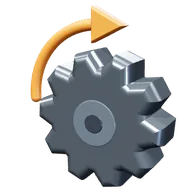
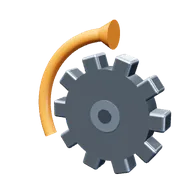
Símbolos modelados en 3D real (18 más): silla, lámpara, gráfica con flecha, billete, gorro de chef, sartén, pluma fuente, engrane con flecha, fábrica, pi, signos de operaciones, brazo robótico, engrane con circuito, etiqueta, vestido, tijeras, portafolio y pelota de tenis

diff --git a/datos/simbolos3d/models.js b/datos/simbolos3d/models.js
@@ -38,6 +38,144 @@ const PU='#8E5BB5',TE='#2FA39A',OR='#F08A2E',PK='#F3A3B5',GL='#AEE0F2';const GY=
 
 const circ=(cx,cy,r,n,a0,a1)=>{a0=a0==null?0:a0;a1=a1==null?Math.PI*2:a1;const o=[];for(let i=0;i<n;i++){const a=a0+(a1-a0)*i/(n-(Math.abs(a1-a0-Math.PI*2)<1e-6?0:1));o.push([cx+Math.cos(a)*r,cy+Math.sin(a)*r])}return o};
 export const MODELS={
+  // Silla de madera con respaldo de travesaños
+  'disindustrial.a'(K){
+    K.box(46,5,42,WO,{m:'wood',p:[0,0,0],rad:1.6});
+    [[-19,-17],[19,-17],[-19,17],[19,17]].forEach(([x,z])=>K.box(4,36,4,'#8F5E30',{m:'wood',p:[x,-20,z],rad:1}));
+    [-19,19].forEach(x=>K.box(4,44,4,'#8F5E30',{m:'wood',p:[x,24,-17],rad:1}));
+    [36,26,16].forEach(y=>K.box(38,5,3,WO,{m:'wood',p:[0,y,-17],rad:1}));
+    K.box(38,2.4,2.4,'#8F5E30',{m:'wood',p:[0,-26,0],rad:0.8,r:[0,90,0]});
+  },
+  // Lámpara de escritorio articulada
+  'disindustrial.b'(K){
+    K.cyl(18,20,5,'#2B3540',{p:[0,-40,0]});
+    K.tube([[0,-38,0],[-12,0,0]],2,ST,{m:'metal'});K.sph(3.4,GY,{m:'metal',p:[-12,0,0]});
+    K.tube([[-12,0,0],[14,22,0]],2,ST,{m:'metal'});K.sph(3.4,GY,{m:'metal',p:[14,22,0]});
+    const h=K.group({p:[22,20,0],r:[0,0,-130]});K.lathe([[0.01,0],[6,0],[8,4],[16,16],[17,18],[0.01,6]].reverse(),YE,{parent:h});K.cyl(5,5,1,'#FFF6CC',{p:[0,14,0],parent:h});
+  },
+  // Gráfica en ascenso con flecha y moneda
+  'economia.a'(K){
+    K.tube([[-40,-30,0],[-18,-6,0],[-4,-16,0],[24,20,0]],4,GR,{tension:0});
+    K.cone(9,16,GR,{p:[30,27,0],r:[0,0,-43]});
+    K.cyl(12,12,4,GO,{m:'gold',p:[-26,24,0],r:[90,0,0]});K.tor(9,0.8,'#C9961E',{m:'gold',p:[-26,24,2.2]});
+  },
+  // Billete con marco, retrato y signo de pesos
+  'economia.b'(K){
+    K.box(88,46,3,'#8CC47A',{rad:2});
+    [1.8,-1.8].forEach(z=>{const g=K.group({p:[0,0,z],r:[0,z<0?180:0,0]});
+      K.box(80,38,0.5,'#6BA85A',{rad:2,parent:g});K.box(76,34,0.6,'#9FD38C',{rad:2,parent:g});
+      K.cyl(12,12,0.8,'#BFE3B0',{r:[90,0,0],parent:g});
+      K.tube([[4,6,0.6],[0,8,0.6],[-4,6,0.6],[-3,2,0.6],[3,-1,0.6],[4,-5,0.6],[0,-8,0.6],[-4,-6,0.6]],1,'#2F6A2E',{parent:g});K.tube([[0,11,0.6],[0,-11,0.6]],0.9,'#2F6A2E',{parent:g});
+      [[-32,-14],[32,14]].forEach(([x,y])=>K.cyl(4,4,0.8,'#BFE3B0',{p:[x,y,0],r:[90,0,0],parent:g}))});
+  },
+  // Gorro de chef con pliegues y banda
+  'gastronomia.a'(K){
+    K.cyl(22,22,22,WH,{p:[0,-20,0]});
+    for(let i=0;i<16;i++){const a=i/16*Math.PI*2;K.box(1,20,1,'#E1DDD3',{p:[Math.cos(a)*22.2,-20,Math.sin(a)*22.2]})}
+    [[0,14,0,20],[-16,8,0,15],[16,8,0,15],[0,8,-14,15],[0,8,14,15],[-10,18,8,13],[10,18,-8,13]].forEach(([x,y,z,r])=>K.sph(r,WH,{p:[x,y,z]}));
+  },
+  // Sartén con huevo estrellado y mango
+  'gastronomia.b'(K){
+    const g=K.group({r:[55,0,0]});
+    K.lathe([[0.01,-4],[28,-4],[33,4],[31,5],[26,-1],[0.01,-1]],'#2B3540',{parent:g});
+    K.cyl(14,14,1.6,WH,{p:[-2,0,2],parent:g,s:[1,1,0.8]});K.sph(6,YE,{p:[0,1,2],s:[1,0.6,1],parent:g});
+    K.cyl(3,3,36,BR,{m:'wood',p:[48,2,0],r:[0,0,90],parent:g});
+  },
+  // Plumilla de pluma fuente dorada
+  'grafico.a'(K){
+    const g=K.group({r:[0,0,-35]});
+    K.lathe([[0.01,0],[12,0],[11,10],[7,24],[3,34],[0.01,38]],GO,{m:'gold',s:[1,1,0.45],parent:g});
+    [5.6,-5.6].forEach(z=>{K.box(1,20,0.6,'#7A5A1A',{p:[0,22,z*0.9],parent:g});K.cyl(2.2,2.2,0.6,'#7A5A1A',{p:[0,12,z],r:[90,0,0],parent:g})});
+    K.cyl(10,12,14,'#2B3540',{p:[0,-7,0],parent:g});K.cyl(12.4,12.4,3,GO,{m:'gold',p:[0,-15,0],parent:g});
+    K.cyl(12,11,30,'#2B3540',{p:[0,-32,0],parent:g});K.sph(11,'#2B3540',{p:[0,-47,0],s:[1,0.5,1],parent:g});
+  },
+
+  // Engrane con flecha de mejora alrededor
+  'industrial.a'(K){
+    K.cyl(26,26,12,ST,{m:'metal',r:[90,0,0]});
+    for(let i=0;i<10;i++){const a=i/10*Math.PI*2;K.box(10,10,12,ST,{m:'metal',p:[Math.cos(a)*29,Math.sin(a)*29,0],r:[0,0,a*180/Math.PI],rad:1.6})}
+    K.cyl(9,9,13,'#5B6670',{r:[90,0,0]});K.cyl(4,4,14,'#3A4048',{r:[90,0,0]});
+    K.tor(44,3.6,OR,{arc:110,r:[0,0,95]});K.cone(8,14,OR,{p:[-5,44,0],r:[0,0,90]});
+  },
+  // Fábrica con techo de sierra, chimenea y humo
+  'industrial.b'(K){
+    K.box(70,30,36,'#B5583F',{p:[0,-14,0],rad:1});
+    for(let i=0;i<3;i++){K.ext('M0 0 L22 -14 L22 0 Z',36,'#9A4430',{bevel:0.6,p:[-35+i*22,1,0]});K.box(0.6,10,32,GL,{p:[-13+i*22,7,0]})}
+    K.cyl(5,6,52,'#9A4430',{p:[28,8,-8]});[0,10].forEach(y=>K.cyl(6.2,6.2,3,WH,{p:[28,14+y,-8]}));
+    [[30,40,6],[36,48,8],[44,54,6]].forEach(([x,y,r])=>K.sph(r,'#D5DCE2',{p:[x,y,-8]}));
+    for(let i=0;i<3;i++)K.box(10,8,1,YE,{p:[-22+i*18,-12,18.3],rad:1});K.box(12,16,1,'#5E3A20',{p:[-2,-21,18.3],rad:1});
+  },
+  // Letra pi en 3D
+  'matematicas.a'(K){
+    K.box(76,12,14,BL,{p:[0,30,0],rad:5});
+    K.ext('M-22 -28 H-10 V22 C-10 30 -16 34 -26 32 V22 C-22 22 -22 20 -22 18 Z',14,BL,{bevel:3});
+    K.ext('M10 -28 H22 V16 C22 22 26 24 32 22 V32 C20 38 10 32 10 20 Z',14,BL,{bevel:3});
+  },
+  // Pizarrón de operaciones: + − × =
+  'matematicas.b'(K){
+    K.box(70,70,10,'#2F5E45',{rad:10});
+    [5.4,-5.4].forEach(z=>{const g=K.group({p:[0,0,z]});
+      K.box(16,4,2,WH,{p:[-16,16,0],rad:1.6,parent:g});K.box(4,16,2,WH,{p:[-16,16,0],rad:1.6,parent:g});
+      K.box(16,4,2,WH,{p:[16,16,0],rad:1.6,parent:g});
+      K.box(16,4,2,WH,{p:[-16,-16,0],r:[0,0,45],rad:1.6,parent:g});K.box(16,4,2,WH,{p:[-16,-16,0],r:[0,0,-45],rad:1.6,parent:g});
+      K.box(16,4,2,WH,{p:[16,-12,0],rad:1.6,parent:g});K.box(16,4,2,WH,{p:[16,-20,0],rad:1.6,parent:g})});
+  },
+  // Brazo robótico industrial
+  'mecatronica.a'(K){
+    K.cyl(22,24,6,'#5B6670',{p:[0,-42,0]});K.cyl(14,14,10,OR,{p:[0,-34,0]});
+    K.sph(7,'#3A4048',{p:[0,-26,0]});
+    K.tube([[0,-26,0],[-10,4,0]],6,OR,{});K.sph(6,'#3A4048',{p:[-10,4,0]});
+    K.tube([[-10,4,0],[18,22,0]],5,OR,{});K.sph(5,'#3A4048',{p:[18,22,0]});
+    K.cyl(4,4,8,ST,{m:'metal',p:[24,26,0],r:[0,0,-60]});
+    [-1,1].forEach(sd=>K.box(3,12,4,ST,{m:'metal',p:[30,30+sd*5,0],r:[0,0,-60+sd*20],rad:0.8}));
+  },
+  // Engrane con circuito
+  'mecatronica.b'(K){
+    K.cyl(34,34,12,ST,{m:'metal',r:[90,0,0]});
+    for(let i=0;i<10;i++){const a=i/10*Math.PI*2;K.box(11,11,12,ST,{m:'metal',p:[Math.cos(a)*37,Math.sin(a)*37,0],r:[0,0,a*180/Math.PI],rad:1.6})}
+    [6.4,-6.4].forEach(z=>{K.box(36,36,1,GR,{p:[0,0,z],rad:3});
+      [[-8,8,16,0],[8,-6,0,14],[-10,-8,0,10]].forEach(([x,y,w,h])=>K.box(w||1.6,h||1.6,0.6,GO,{m:'gold',p:[x,y,z*1.12],rad:0.3}));
+      K.box(12,12,1.6,'#2B3540',{p:[4,4,z*1.15],rad:1})});
+  },
+  // Etiqueta de precio con hilo y signo de pesos
+  'mercadotecnia.b'(K){
+    K.shape([[-12,0],[10,-24],[46,-24],[46,24],[10,24]],[circ(2,0,4.5,24)],8,YE,{bevel:2});
+    [5,-5].forEach(z=>{K.tube([[34,10,z],[28,12,z],[22,9,z],[22,3,z],[30,-1,z],[34,-6,z],[30,-11,z],[22,-9,z]],1.4,'#8A5F12',{});K.tube([[28,16,z],[28,-16,z]],1.2,'#8A5F12',{})});
+    K.tube([[-1,0,0],[-10,10,4],[-20,22,4],[-30,26,0]],0.7,GY,{nocap:true});
+  },
+  // Vestido en gancho
+  'moda.a'(K){
+    K.tube([[-30,30,0],[0,40,0],[30,30,0]],1.4,ST,{m:'metal',tension:0});K.tube([[-30,30,0],[30,30,0]],1.4,ST,{m:'metal'});
+    K.tube([[0,40,0],[0,46,0],[5,50,0],[8,46,0]],1.4,ST,{m:'metal'});
+    K.lathe([[0.01,30],[10,30],[12,18],[9,6],[13,0],[34,-44],[0.01,-44]].reverse(),RE,{s:[1,1,0.55]});
+    K.tor(10,1.6,PK,{p:[0,6,0],r:[90,0,0],s:[1.05,1,0.6]});
+    [-6,6].forEach(x=>K.tube([[x,30,0],[x*1.4,36,0],[x*3,30,0]],1,RE,{}));
+  },
+  // Tijeras de costura con ojos rojos
+  'moda.b'(K){
+    [[-1,ST],[1,'#C9D0D6']].forEach(([sd,c])=>{const g=K.group({r:[0,0,sd*-22],p:[0,0,sd*1.4]});
+      K.ext('M-3 0 L3 0 L1 -54 Z',2.4,c,{m:'metal',bevel:0.8,parent:g});
+      K.tube([[0,0,0],[0,-10,0],[sd*-2,-16,0]],2.4,RE,{parent:g});K.tor(9,2.6,RE,{p:[sd*-6,-26,0],parent:g})});
+    K.cyl(2.6,2.6,6,GY,{m:'metal',r:[90,0,0]});
+  },
+
+  // Portafolio de piel con asa, cierres y esquineros
+  'negocios.a'(K){
+    K.box(80,52,26,BR,{p:[0,-6,0],rad:4});K.box(81,4,27,'#6E4426',{p:[0,6,0],rad:1});
+    K.tube([[-14,20,0],[-14,30,0],[14,30,0],[14,20,0]],2.8,'#5E3A20',{tension:0.2});
+    [13.4,-13.4].forEach(z=>{[-24,24].forEach(x=>K.box(8,6,1.4,GO,{m:'gold',p:[x,6,z],rad:1}));});
+    [[-38,18],[38,18],[-38,-30],[38,-30]].forEach(([x,y])=>[13,-13].forEach(z=>K.box(6,6,2,GO,{m:'gold',p:[x,y,z],rad:1.4})));
+  },
+  // Pelota de tenis con líneas de movimiento
+  'o_pelota2.a'(K){
+    K.sph(28,'#D9E85A',{p:[10,0,0]});
+    const a=0.75,b=0.25,c=2*Math.sqrt(a*b),P=[];
+    for(let i=0;i<=72;i++){const t=i/72*Math.PI*2;const v=new THREE.Vector3(a*Math.cos(t)+b*Math.cos(3*t),a*Math.sin(t)-b*Math.sin(3*t),c*Math.sin(2*t)).normalize().multiplyScalar(28.3);P.push([v.x+10,v.y,v.z])}
+    K.tube(P,1.3,WH,{closed:true});
+    [[-26,10],[-30,0],[-26,-10]].forEach(([x,y])=>K.cap(1.6,14,'#C9C2B4',{p:[x,y,0],r:[0,0,90]}));
+  },
+
+
   // Puente colgante: torres, cables, tirantes, tablero y agua
   'civil.b'(K){
     K.box(96,4,14,'#B23A2E',{p:[0,-6,0],rad:1});
